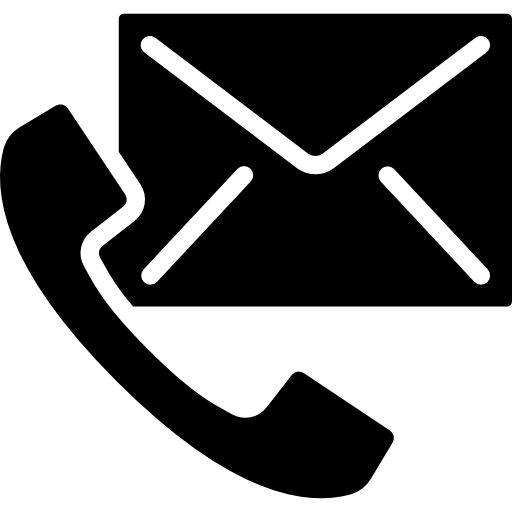
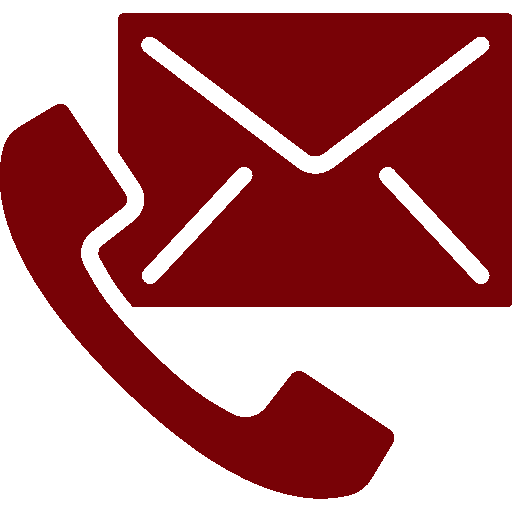
services  pages

diff --git a/src/pages/services/privacy.js b/src/pages/services/privacy.js
@@ -4,7 +4,7 @@ import Contact from '../../components/contact'
 import Header from '../../components/header'
 import Footer from '../../components/footer'
 
-import styles from './services.module.css'
+import styles from '../../styles/services.module.css'
 
 export default function Family() {
   return (
@@ -12,11 +12,19 @@ export default function Family() {
       <Contact showback='yes' />
       <main className={styles.main}>
         <Header />
-        <div className={styles.title}>
+        <div className={styles.code}>
           <h1>Ações de família</h1>
         </div>
         <div className={styles.grid}>
+          <div>
+            xxx
+          </div>
+          <div>
+            xxx
+          </div>
 
+          <p>yyy</p>
+          <p>yyy</p>
         </div>
       </main>
       <Footer />

diff --git a/src/styles/services.module.css b/src/styles/services.module.css
@@ -32,6 +32,28 @@
   font-size: 1.1rem;
 }
 
+
+.code {
+  max-width: 800px;
+  text-align: center;
+  border-radius: 5px;
+  color: rgb(73, 1, 1);
+  padding: 0.75rem;
+  font-size: 1.1rem;
+  font-family: Menlo, Monaco, Lucida Console, Liberation Mono, DejaVu Sans Mono,
+    Bitstream Vera Sans Mono, Courier New, monospace;
+}
+.code h1 {
+  margin-top: 0vh;
+  display: block;
+  font-size: 1.2rem;
+}
+.code h2 {
+  margin-top: 2vh;
+  display: none;
+  font-size: 1.2rem;
+}
+
 .grid {
   display: flex;
   align-items: center;

diff --git a/src/pages/services/building.js b/src/pages/services/building.js
@@ -4,7 +4,7 @@ import Contact from '../../components/contact'
 import Header from '../../components/header'
 import Footer from '../../components/footer'
 
-import styles from './services.module.css'
+import styles from '../../styles/services.module.css'
 
 export default function Family() {
   return (

diff --git a/src/pages/services/consumer.js b/src/pages/services/consumer.js
@@ -4,7 +4,7 @@ import Contact from '../../components/contact'
 import Header from '../../components/header'
 import Footer from '../../components/footer'
 
-import styles from './services.module.css'
+import styles from '../../styles/services.module.css'
 
 export default function Family() {
   return (

diff --git a/src/pages/services/family.js b/src/pages/services/family.js
@@ -4,7 +4,7 @@ import Contact from '../../components/contact'
 import Header from '../../components/header'
 import Footer from '../../components/footer'
 
-import styles from './services.module.css'
+import styles from '../../styles/services.module.css'
 
 export default function Family() {
   return (

diff --git a/src/pages/services/labor.js b/src/pages/services/labor.js
@@ -4,7 +4,7 @@ import Contact from '../../components/contact'
 import Header from '../../components/header'
 import Footer from '../../components/footer'
 
-import styles from './services.module.css'
+import styles from '../../styles/services.module.css'
 
 export default function Family() {
   return (

diff --git a/src/pages/services/medicine.js b/src/pages/services/medicine.js
@@ -4,7 +4,7 @@ import Contact from '../../components/contact'
 import Header from '../../components/header'
 import Footer from '../../components/footer'
 
-import styles from './services.module.css'
+import styles from '../../styles/services.module.css'
 
 export default function Family() {
   return (

diff --git a/src/pages/services/pension.js b/src/pages/services/pension.js
@@ -4,7 +4,7 @@ import Contact from '../../components/contact'
 import Header from '../../components/header'
 import Footer from '../../components/footer'
 
-import styles from './services.module.css'
+import styles from '../../styles/services.module.css'
 
 export default function Family() {
   return (

diff --git a/src/pages/services/service.js b/src/pages/services/service.js
@@ -4,7 +4,7 @@ import Contact from '../../components/contact'
 import Header from '../../components/header'
 import Footer from '../../components/footer'
 
-import styles from './services.module.css'
+import styles from '../../styles/services.module.css'
 
 export default function Family() {
   return (

diff --git a/src/pages/services/traffic.js b/src/pages/services/traffic.js
@@ -4,7 +4,7 @@ import Contact from '../../components/contact'
 import Header from '../../components/header'
 import Footer from '../../components/footer'
 
-import styles from './services.module.css'
+import styles from '../../styles/services.module.css'
 
 export default function Family() {
   return (

diff --git a/src/components/menu.module.css b/src/components/menu.module.css
@@ -60,7 +60,7 @@
 }
 
 .cardLine h2 {
-  color: rgb(0, 0, 8);
+  color: rgba(78, 1, 1);
   font-size: 16px;
   font-weight: 700;
   margin: 3px 0 8px;
@@ -68,7 +68,7 @@
 }
 
 .cardLine p {
-  color: rgb(1, 1, 48);
+  color:rgba(78, 1, 1);
   margin: 0;
   font-size: 1.2rem;
   text-align: justify;
